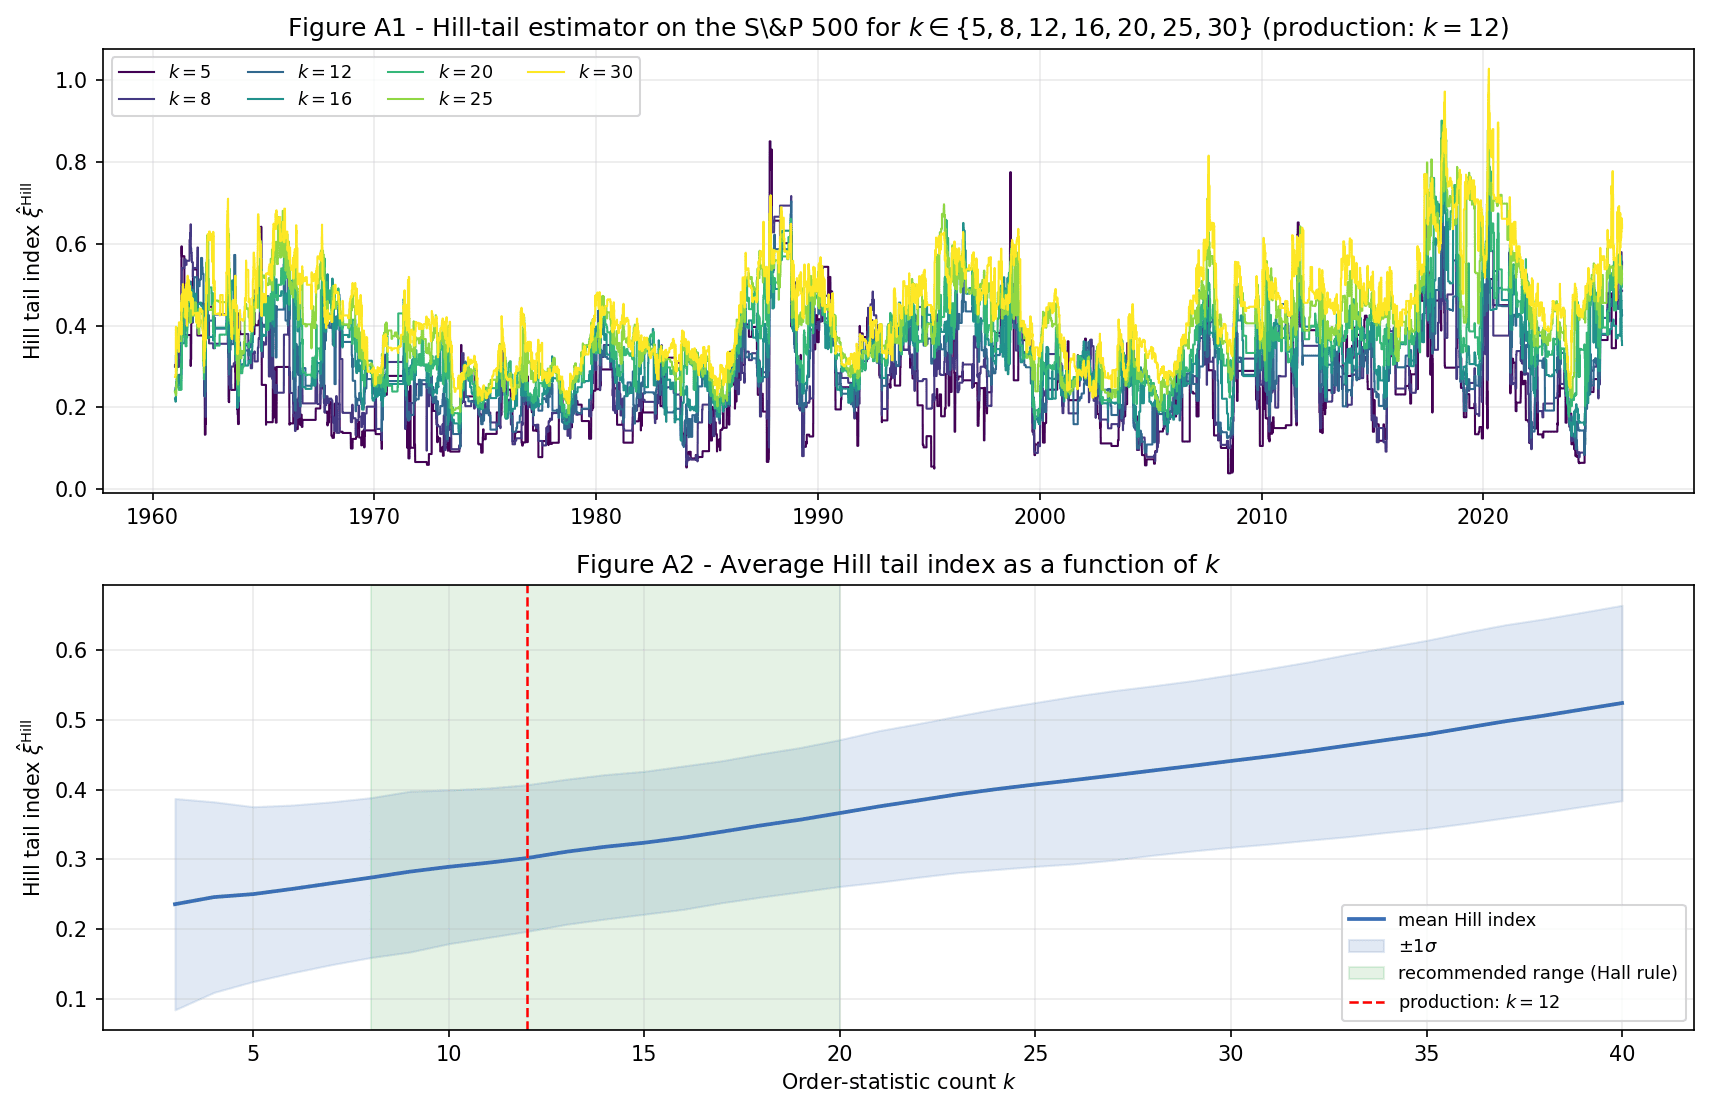
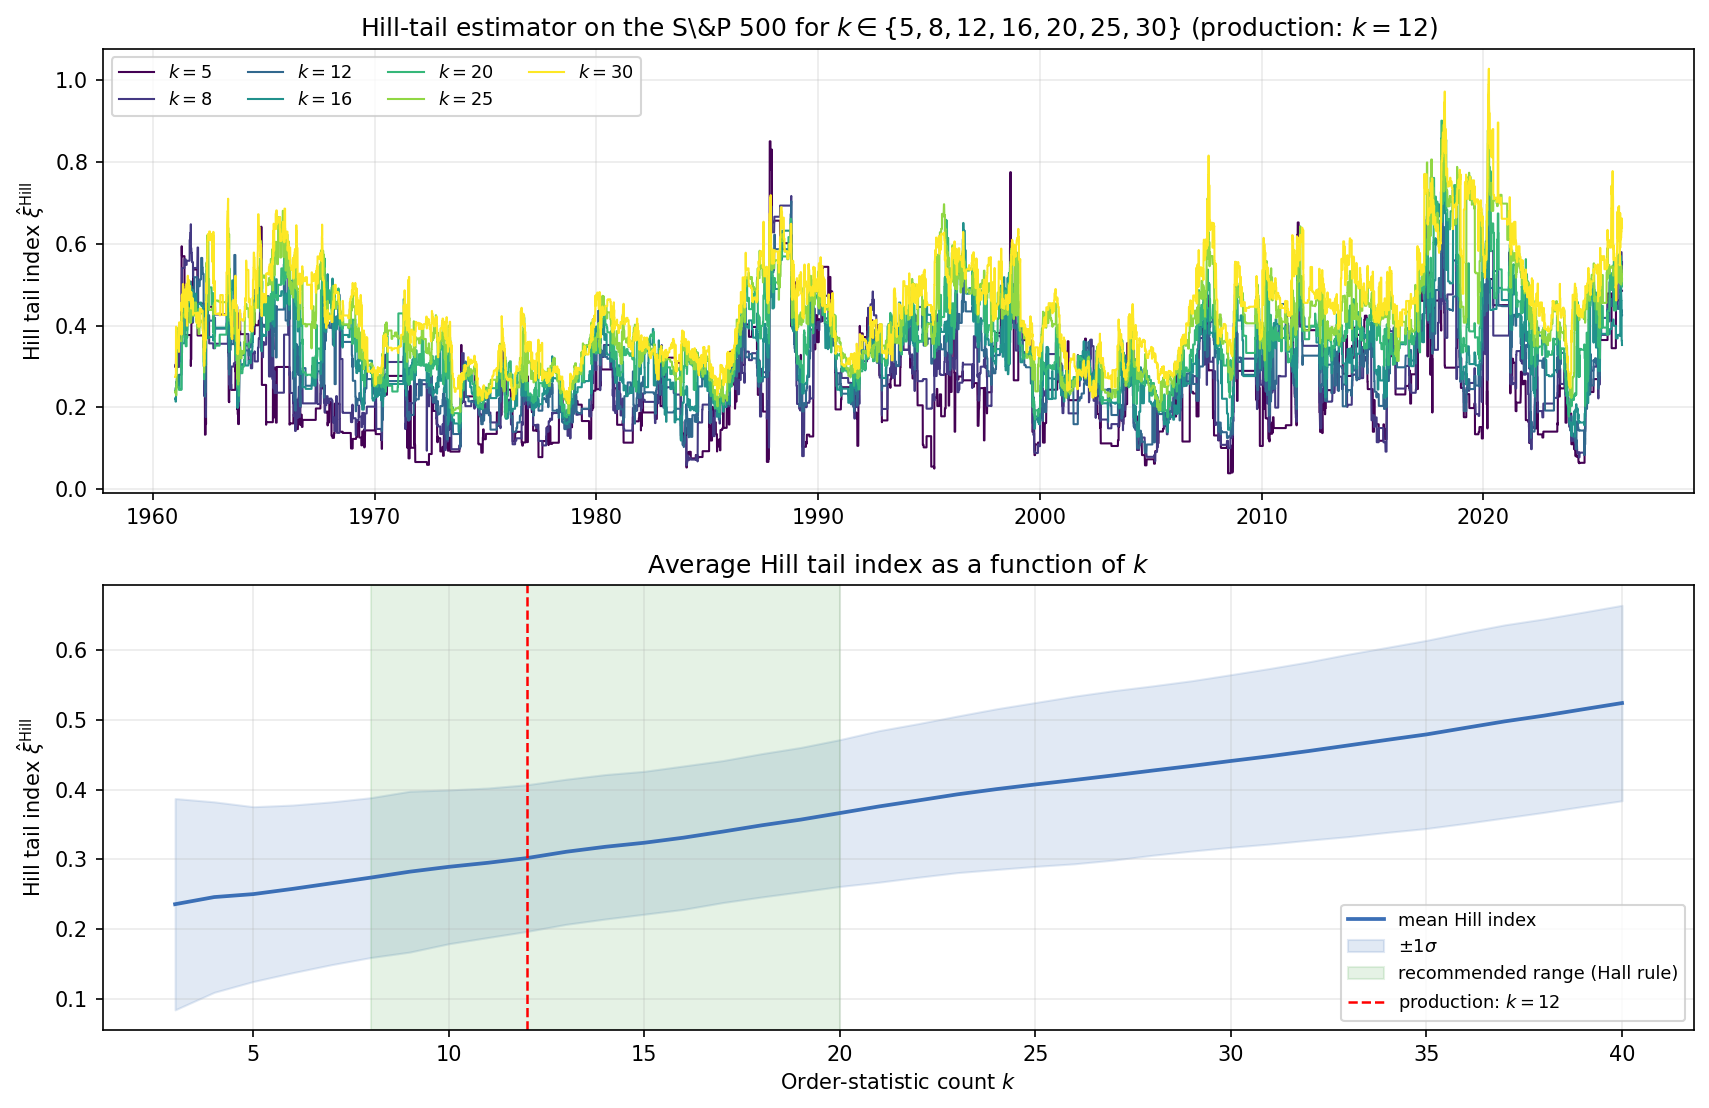
some modifications

diff --git a/analysis/analyze_and_plot.py b/analysis/analyze_and_plot.py
@@ -160,7 +160,7 @@ mpl.rcParams.update({
 # ───────────────────────────────────────────────────────────────────────────
 
 def fig_sig5_ranking(df: pd.DataFrame, out: Path):
-    """Headline figure — share of configurations significant at the 5%
+    """ Share of configurations significant at the 5%
     level, one bar per indicator, coloured by family and sorted from
     most to least frequently significant."""
     g = (df.groupby("indicator")
@@ -193,8 +193,8 @@ def fig_sig5_ranking(df: pd.DataFrame, out: Path):
 
 
 def fig_global_ranking(df: pd.DataFrame, out: Path):
-    """Figure 1 — Global ranking by *median* p-value.
-       Vertical bar chart (one bar per indicator) coloured by family."""
+    """Global ranking by *median* p-value."""
+    #    Vertical bar chart (one bar per indicator) coloured by family.
     g = (df.groupby("indicator")
            .agg(median_p=("p_value", "median"),
                 sig5=("sig5", "mean"))
@@ -216,7 +216,7 @@ def fig_global_ranking(df: pd.DataFrame, out: Path):
                 ha="center", fontsize=7.5)
     ax.set_xticklabels(g["display"], rotation=45, ha="right", fontsize=9)
     ax.set_ylabel("Median $p$-value")
-    ax.set_title("Figure 1 — Global ranking of crisis-prediction indicators "
+    ax.set_title("Global ranking of crisis-prediction indicators "
                  "(median $p$-value; lower $=$ stronger)")
     handles = [plt.Rectangle((0,0),1,1, color=c, ec="black", lw=0.4)
                for c in FAMILY_COLOURS.values()]
@@ -229,9 +229,7 @@ def fig_global_ranking(df: pd.DataFrame, out: Path):
 
 
 def fig_family_pooled(df: pd.DataFrame, out: Path):
-    """Figure 2 — Mean vs Median p-value per family, vertical bars.
-       This is the figure cited to justify the mean-to-median switch:
-       the gap between mean and median exposes the right-skew."""
+    """ Mean vs Median p-value per family, vertical bars."""
     fam_order = ["Volatility & Tail-Risk", "Systemic-Risk & Contagion",
                  "Valuation & Trend", "Credit & Term-Structure",
                  "Macro & Real-Activity"]
@@ -250,7 +248,7 @@ def fig_family_pooled(df: pd.DataFrame, out: Path):
     ax.set_xticks(x)
     ax.set_xticklabels([s.replace(" & ", "\n& ") for s in g.index], fontsize=9)
     ax.set_ylabel("$p$-value")
-    ax.set_title("Figure 2 — Mean vs Median $p$-value by indicator family")
+    ax.set_title("Mean vs Median $p$-value by indicator family")
     ax.legend(fontsize=9)
     for i, v in enumerate(g["mean_p"]):
         ax.text(i - w/2, v + 0.005, f"{v:.3f}", ha="center", fontsize=8)
@@ -262,8 +260,7 @@ def fig_family_pooled(df: pd.DataFrame, out: Path):
 
 
 def fig_threshold_pattern(df: pd.DataFrame, out: Path):
-    """Figure 3 — Median p-value by family across drawdown thresholds.
-       Axis is *not* inverted; lower y = stronger evidence."""
+    """ Median p-value by family across drawdown thresholds."""
     g = (df.groupby(["family", "drawdown_threshold"])["p_value"].median()
            .unstack("drawdown_threshold"))
     fig, ax = plt.subplots(figsize=(9.0, 4.6))
@@ -276,7 +273,7 @@ def fig_threshold_pattern(df: pd.DataFrame, out: Path):
                label="$p = 0.05$")
     ax.set_xlabel("Drawdown threshold $\\delta$ (%)")
     ax.set_ylabel("Median $p$-value")
-    ax.set_title("Figure 3 — Median $p$-value by family and drawdown threshold")
+    ax.set_title(" Median $p$-value by family and drawdown threshold")
     ax.legend(fontsize=8.5, loc="upper left")
     fig.tight_layout()
     fig.savefig(out)
@@ -284,14 +281,14 @@ def fig_threshold_pattern(df: pd.DataFrame, out: Path):
 
 
 def fig_horizon_heatmap(df: pd.DataFrame, out: Path):
-    """Horizon x indicator heatmap over ALL indicators.
-
-    Cells show the share of configurations significant at the 5%
-    level. To keep colour semantics homogeneous across every heatmap
-    in the paper (green = strong predictor, red = weak predictor) we
-    plot ``1 - sig5`` against the shared ``HEATMAP_CMAP``. Indicators
-    are ordered by their pooled median p-value (strongest at top).
+    """Horizon x indicator heatmap over all indicators.
     """
+    # Cells show the share of configurations significant at the 5%
+    # level. To keep colour semantics homogeneous across every heatmap
+    # in the paper (green = strong predictor, red = weak predictor) we
+    # plot ``1 - sig5`` against the shared ``HEATMAP_CMAP``. Indicators
+    # are ordered by their pooled median p-value (strongest at top).
+
     rank = df.groupby("indicator")["p_value"].median().sort_values()
     order = rank.index.tolist()
     g = (df.groupby(["indicator", "config"])["sig5"]
@@ -327,7 +324,7 @@ def fig_horizon_heatmap(df: pd.DataFrame, out: Path):
 
 
 def fig_market_comparison(df: pd.DataFrame, out: Path):
-    """Figure 5 — Cross-market comparison by *median* p-value, vertical bars."""
+    """Cross-market comparison by *median* p-value, vertical bars."""
     g = df.groupby("market")["p_value"].median().sort_values()
     fig, ax = plt.subplots(figsize=(9.5, 4.6))
     bars = ax.bar(g.index, g.values, color="#3B6FB6",
@@ -338,7 +335,7 @@ def fig_market_comparison(df: pd.DataFrame, out: Path):
                 f"{val:.3f}", ha="center", fontsize=8.5)
     ax.axhline(0.05, color="black", lw=1.0, ls="--", alpha=0.7, label="$p = 0.05$")
     ax.set_ylabel("Median $p$-value")
-    ax.set_title("Figure 5 — Cross-market comparison by median $p$-value "
+    ax.set_title(" Cross-market comparison by median $p$-value "
                  "(lower $=$ more predictable)")
     ax.legend(fontsize=8.5, loc="upper left")
     fig.tight_layout()
@@ -347,7 +344,7 @@ def fig_market_comparison(df: pd.DataFrame, out: Path):
 
 
 def fig_market_heatmap(df: pd.DataFrame, market: str, out: Path):
-    """Per-market heatmap of median p-value, with shared colormap."""
+    """Per-market heatmap of median p-value."""
     sub = df[df["market"] == market]
     g = (sub.groupby(["indicator", "drawdown_threshold"])["p_value"].median()
             .unstack("drawdown_threshold")
@@ -377,9 +374,7 @@ def fig_market_heatmap(df: pd.DataFrame, market: str, out: Path):
 
 
 def fig_indicator_market_heatmap(df: pd.DataFrame, out: Path):
-    """Indicator x market heatmap of median p-value.
-       Uses the same heatmap colormap as the per-market versions and the
-       Figure 7 significance map so the section reads as one visual story."""
+    """Indicator x market heatmap of median p-value."""
     g = (df.groupby(["market", "indicator"])["p_value"].median()
            .unstack("indicator")
            .reindex(columns=INDICATOR_ORDER))
@@ -411,9 +406,9 @@ def fig_indicator_market_heatmap(df: pd.DataFrame, out: Path):
 
 
 def fig_significance_heatmap(df: pd.DataFrame, out: Path):
-    """Figure 7 — Indicator × market significance share at the 5 % level.
-       Uses the same colormap as the median-p heatmap so Figures 6 and 7
-       form a visually-consistent pair, as requested."""
+    """Indicator × market significance share at the 5 % level."""
+    #    Uses the same colormap as the median-p heatmap so Figures 6 and 7
+    #    form a visually-consistent pair, as requested.
     g = (df.groupby(["market", "indicator"])["sig5"].mean()
            .unstack("indicator")
            .reindex(columns=INDICATOR_ORDER))
@@ -444,7 +439,7 @@ def fig_significance_heatmap(df: pd.DataFrame, out: Path):
                       "(green = high share)", shrink=0.9)
     cb.set_ticks([0, 0.2, 0.5, 0.8, 1.0])
     cb.set_ticklabels(["100%", "80%", "50%", "20%", "0%"])
-    ax.set_title("Figure 7 — Share of configurations significant at 5% "
+    ax.set_title("Share of configurations significant at 5% "
                  "by indicator and market")
     fig.tight_layout()
     fig.savefig(out)

diff --git a/analysis/out_of_sample.py b/analysis/out_of_sample.py
@@ -155,7 +155,9 @@ def _load_market_daily(market: str, cutoff: pd.Timestamp) -> tuple[pd.DataFrame,
     idx_raw = pd.read_csv(dp / "index.csv", index_col=0, parse_dates=True).sort_index()
     idx_raw = idx_raw[idx_raw.index <= cutoff]
     df_daily = idx_raw[["Close"]].copy().rename(columns={"Close": market})
-    df_daily["returns"] = df_daily[market].pct_change()
+    df_daily["returns"] = (df_daily[market].pct_change()
+                              if not df_daily.empty
+                              else pd.Series(dtype=float, index=df_daily.index))
 
     hy   = pd.read_csv(dp / "hy_spread.csv",         index_col=0, parse_dates=True).iloc[:, 0]
     yc   = pd.read_csv(dp / "yield_curve.csv",       index_col=0, parse_dates=True).iloc[:, 0]
@@ -260,6 +262,9 @@ def _build_df_at_freq(market, df_daily, raws, freq, pandas_freq) -> pd.DataFrame
 
 def sweep_market_pre2021(market: str) -> pd.DataFrame:
     df_daily, raws = _load_market_daily(market, cutoff=CUTOFF)
+    if df_daily.empty:
+        print(f"    skipping {market}: no pre-2021 history")
+        return pd.DataFrame(columns=["indicator", "p_value"])
     rows = []
     for dd in DRAWDOWN_THRESHOLDS:
         for horizon, freq in EXPERIMENT:

diff --git a/analysis/hill_tail_diagnostic.py b/analysis/hill_tail_diagnostic.py
@@ -64,7 +64,7 @@ def main():
                 color=cmap(j / max(len(ks) - 1, 1)),
                 label=f"$k = {k}$")
     ax.set_ylabel("Hill tail index $\\hat\\xi^{\\mathrm{Hill}}$")
-    ax.set_title("Figure A1 - Hill-tail estimator on the S\\&P 500 "
+    ax.set_title("Hill-tail estimator on the S\\&P 500 "
                  "for $k \\in \\{5, 8, 12, 16, 20, 25, 30\\}$ "
                  "(production: $k = 12$)")
     ax.legend(ncol=4, fontsize=8.5)
@@ -86,7 +86,7 @@ def main():
     ax2.axvline(12, color="red", lw=1.2, ls="--", label="production: $k = 12$")
     ax2.set_xlabel("Order-statistic count $k$")
     ax2.set_ylabel("Hill tail index $\\hat\\xi^{\\mathrm{Hill}}$")
-    ax2.set_title("Figure A2 - Average Hill tail index as a function of $k$")
+    ax2.set_title("Average Hill tail index as a function of $k$")
     ax2.legend(fontsize=8.5)
     ax2.grid(alpha=0.25)
 

diff --git a/analysis/logit_vs_probit.py b/analysis/logit_vs_probit.py
@@ -89,7 +89,7 @@ def main():
             elif freq == "W":
                 rule, periods = "W-FRI", h
             else:
-                rule, periods = "ME", h
+                rule, periods = "M", h
             ret_p = ret.resample(rule).sum().dropna() if freq != "D" else ret
             for dd in DRAWDOWNS:
                 fcum = ret_p.rolling(periods).sum().shift(-periods)
@@ -149,7 +149,7 @@ def main():
                     transform=ax[0].transAxes, ha="center")
         ax[1].axis("off")
 
-    fig.suptitle("Figure A3 — Logit vs Probit robustness: paired regressions on the "
+    fig.suptitle(" Logit vs Probit robustness: paired regressions on the "
                  "same data", y=1.02, fontweight="bold")
     fig.tight_layout()
     fig.savefig(OUT_FIG, dpi=150, bbox_inches="tight")
